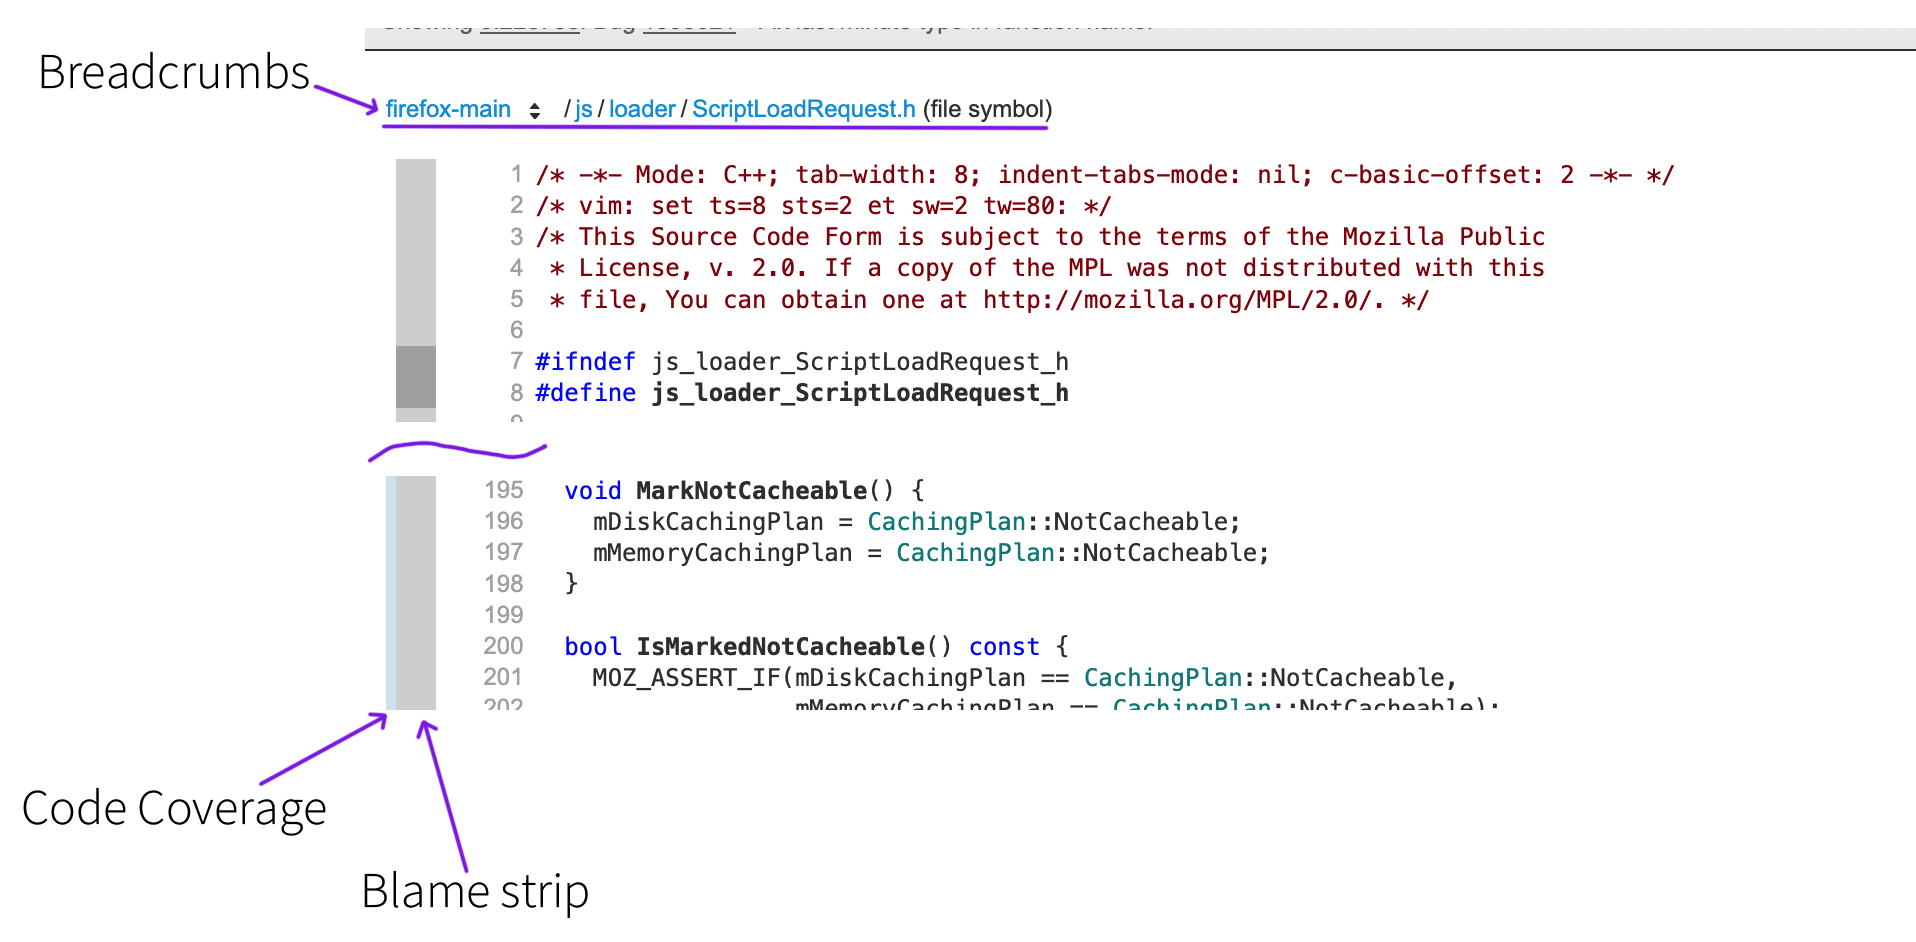
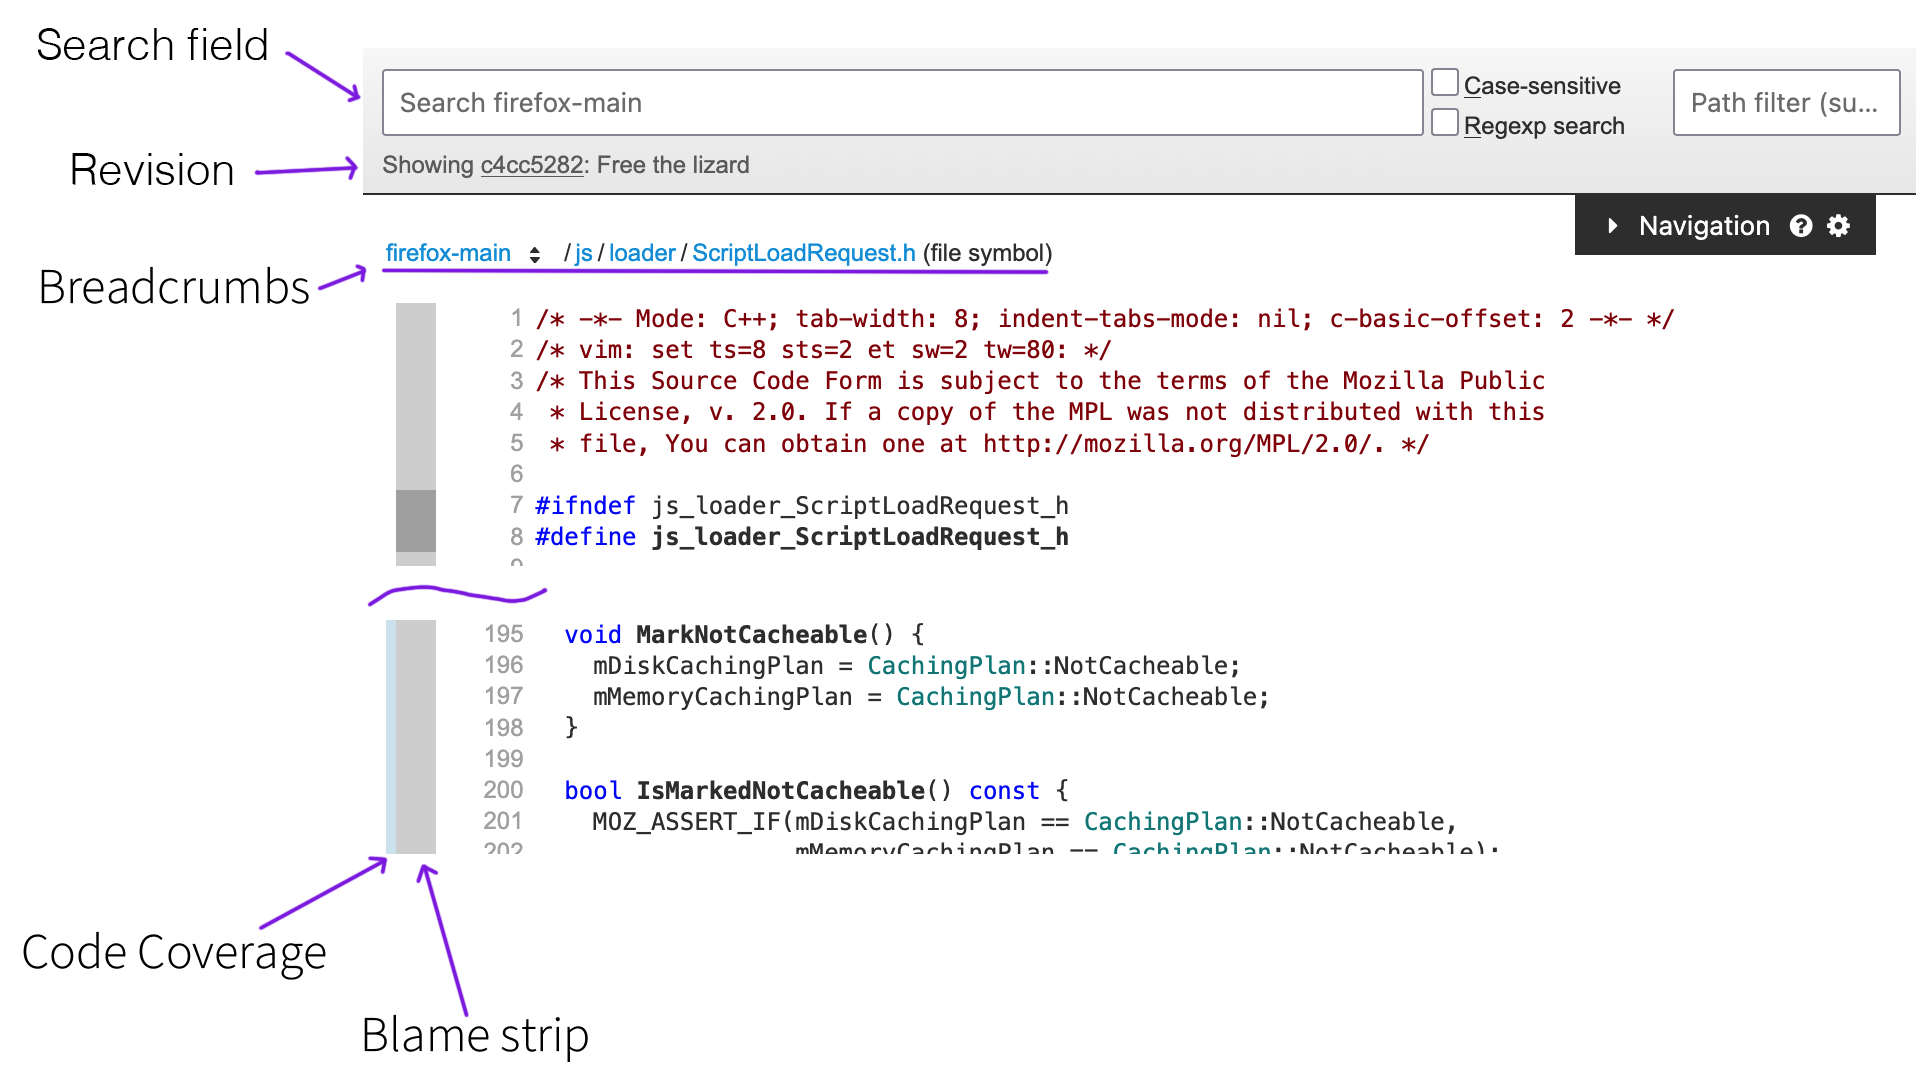
Bug 2002872 - Part 2: Document the revision box. r=asuth
Differential Revision: https://phabricator.services.mozilla.com/D277689

Changed region(s): [[0.0, 0.0308, 1.0, 0.9851]]

diff --git a/docs/contributing/searchfox/source_listing.rst b/docs/contributing/searchfox/source_listing.rst
@@ -7,10 +7,21 @@ Source listing
     :alt: The source listing and each component
     :width: 958px
 
+Search field
+------------
+
+The header shows the :ref:`search <searchfox_search>` field.
+
+Revision
+--------
+
+In the file listing, the header shows the currently-showing revision's hash and
+the commit message.
+
 Breadcrumbs
 -----------
 
-At the top of the source listing, breadcrumbs for the file is shown.
+Below the header, breadcrumbs for the file is shown.
 
 You can select different tree from the repository drop down menu there, and also navigate to other directory, or open a context menu for the file symbol.
 

diff --git a/docs/contributing/searchfox/searchfox_search.rst b/docs/contributing/searchfox/searchfox_search.rst
@@ -1,3 +1,5 @@
+.. _searchfox_search:
+
 Searchfox Query Language Documentation
 ======================================
 
